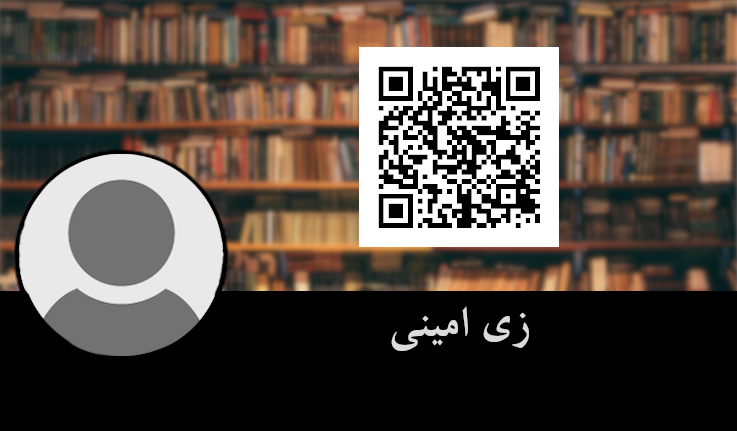
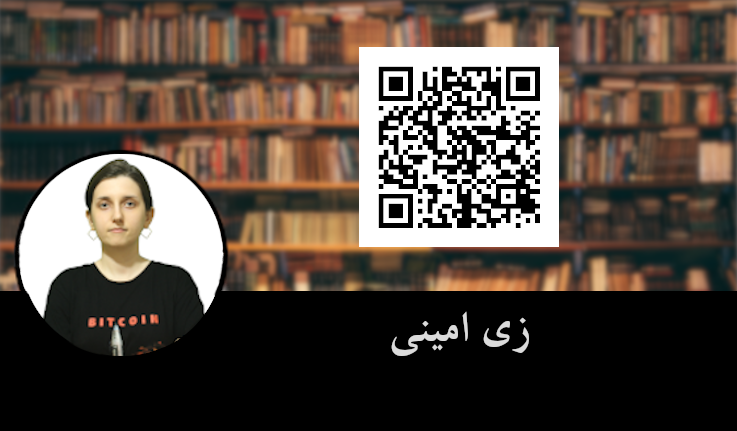
adding zi-amini to the contributor's list

Changed region(s): [[0.0624, 0.3619, 0.2809, 0.8445], [0.5305, 0.7239, 0.7178, 0.8445]]

diff --git a/hemayat.html b/hemayat.html
@@ -64,7 +64,7 @@
       ما در سایت منابع فارسی بیتکوین از ابتدای راه تلاش کردهایم تا محتوایی درخور مخاطبان فارسیزبان تولید کنیم و خوشبختانه در ادامه مسیر دوستانی پیدا کردیم که بهصورت خودجوش به تولید
       محتوای فارسی علاقهمند بودند و در این امر بسیار مهم و دشوار به ما یاری رساندند. برای حمایت از تلاشهای این دوستان بستری فراهم شده است که مخاطبان سایت را قادر میسازد در حد توان و به مقداری که 
       علاقهمند هستند، بهصورت مستقیم و بدون واسطه از طریق شبکه لایتنینگِ بیتکوین هدیههایی به حسابهای شخصی این دوستان ارسال کنند.
-      اگر گوش دادن کتابهای صوتی، یا مطالعه مقالات و کتابهایی که توسط این دوستان تولید شدهاند برای شما مفید بوده است میتوانید به مقداری که علاقه دارید برای این دوستان هدیه ارسال کنید. برای این کار میتوانید کُد هریک از این دوستان را با یکی از کیف پولهای BlueWallet, Phoenix  و Wallet of Satoshi اسکن و نسبت به ارسال هدیه اقدام نمایید. اگر با طرز کار این کیف پولها آشنایی ندارید، میتوانید از راهنمایی که پایینتر
+      اگر گوش دادن کتابهای صوتی، یا مطالعه مقالات و کتابهایی که توسط این دوستان تولید شدهاند برای شما مفید بوده است میتوانید به مقداری که علاقه دارید برای این دوستان هدیه ارسال کنید. برای این کار میتوانید کُد QR هریک از این دوستان را با یکی از کیف پولهای BlueWallet, Phoenix  و Wallet of Satoshi اسکن و نسبت به ارسال هدیه اقدام نمایید. اگر با طرز کار این کیف پولها آشنایی ندارید، میتوانید از راهنمایی که پایینتر
       آمده استفاده کنید.
     </p>
     <p class="container ir_title mt-4 regular_text">
@@ -329,10 +329,6 @@
         </div>
 
         <div class="col-lg mx-2 my-2">
-          &nbsp;
-        </div>
-
-        <div class="col-lg mx-2 my-2" style="display:none;">
           <div class="row">
             <div class="col full-img" style="min-height: 330px;background-image: url('assets/images/donationcovers/gifts-zi_amini_cover.png');">
             </div>
